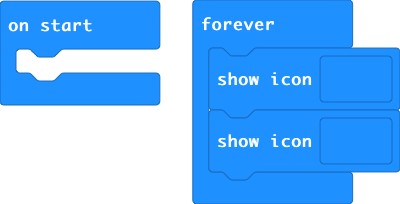
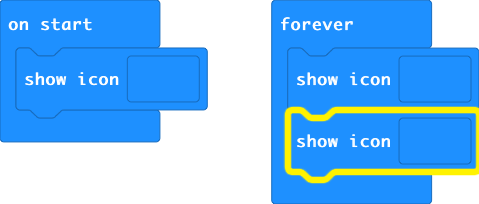
Update main.blocks, main.ts

diff --git a/main.ts b/main.ts
@@ -1,4 +1,5 @@
+basic.showIcon(IconNames.SmallDiamond)
 basic.forever(function () {
-    basic.showIcon(IconNames.Heart)
-    basic.showIcon(IconNames.SmallHeart)
+    basic.showIcon(IconNames.Square)
+    basic.showIcon(IconNames.Sword)
 })
